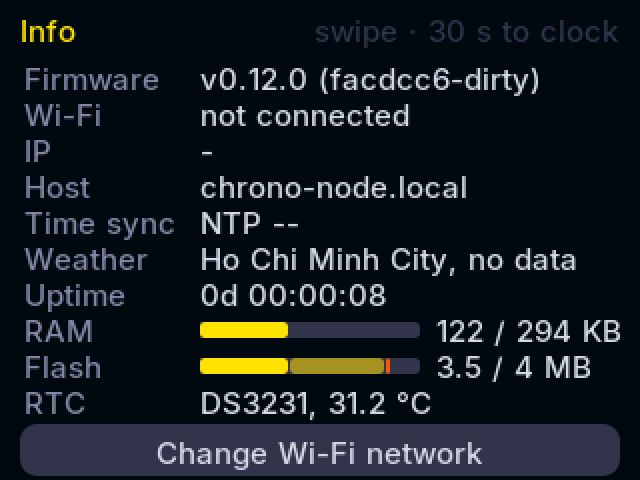
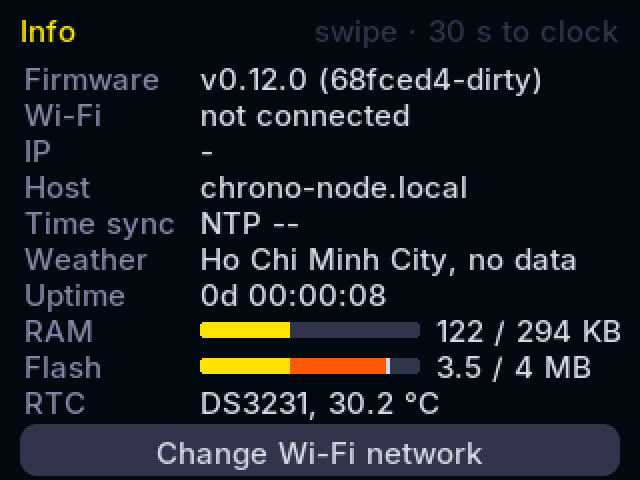
Storage view like a phone's: continuous bars and a list of parts
Info screen: the RAM and flash bars are one continuous rounded bar, with
segments side by side and free space at the end; the 1 px gaps and the
dimmed segment looked broken. Web page: a Storage section with a bar and a
list for flash and RAM, each part with its size and what it holds.

Changed region(s): [[0.5, 0.125, 0.8438, 0.2188], [0.4375, 0.7188, 0.625, 0.7812], [0.5312, 0.8125, 0.6875, 0.875]]

diff --git a/src/web_page.h b/src/web_page.h
@@ -28,12 +28,18 @@ button.danger{border-color:var(--err);color:var(--err)}.val{min-width:44px;text-
 .ph button{position:absolute;top:6px;right:6px;padding:2px 8px;background:#0b0f22d0}
 .ph .cap{position:absolute;left:6px;bottom:6px;font-size:12px;background:#0b0f22d0;border-radius:6px;padding:1px 7px;pointer-events:none}
 .bar{display:flex;height:12px;border-radius:6px;background:#0b0f22;border:1px solid var(--line);overflow:hidden;margin:4px 0}.bar i{display:block;height:100%}
+.bar.big{height:18px;border-radius:6px}.bar.big i{border-right:2px solid var(--card)}.bar.big i:last-child{border-right:0}
+.sthead{display:flex;justify-content:space-between;align-items:baseline;margin:14px 0 6px}.sthead span{color:var(--dim);font-size:13px}
+.strow{display:grid;grid-template-columns:12px 1fr auto;gap:10px;align-items:baseline;padding:8px 0;border-top:1px solid var(--line)}
+.strow .sw{width:12px;height:12px;border-radius:4px}.stv{color:var(--dim);font-variant-numeric:tabular-nums;white-space:nowrap}
 .legend{display:flex;flex-wrap:wrap;gap:4px 14px;font-size:13px;color:var(--dim)}.sw{display:inline-block;width:10px;height:10px;border-radius:3px;margin-right:5px;vertical-align:-1px}
 #phcv{width:100%;max-width:480px;aspect-ratio:4/3;border-radius:9px;touch-action:none;cursor:grab;display:block;background:#000;border:1px solid var(--line)}.big{font-size:28px;font-weight:700}.muted{color:var(--dim);font-size:13px}
 </style></head><body><main>
 <h1>Chrono <span>Node</span></h1><div class="sub" id="sub">Loading...</div>
 
 <section><h2>Status</h2><div class="big" id="time">--:--:--</div><div class="grid" id="status"></div></section>
+
+<section><h2>Storage</h2><div id="storage"></div></section>
 
 <section><h2>Display</h2>
 <div class="row"><label>Day brightness</label><input type="range" id="bday" min="10" max="100" step="5"><span class="val" id="bdayv"></span></div>
@@ -116,23 +122,31 @@ $("time").textContent=s.local_time.slice(11);$("fwcur").textContent="Installed: 
 const w=s.weather?`${s.weather.temp_c}\u00b0C ${s.weather.condition}, ${s.weather.place} (${ago(s.weather.age_s)})`:"no data yet";
 const rows=[["Date",s.local_time.slice(0,10)],["Wi-Fi",`${s.wifi.ssid} (${s.wifi.rssi} dBm)`],["IP",s.wifi.ip],["Time sync",s.ntp],
 ["RTC",s.rtc.present?("DS3231"+(s.rtc.temp_c!==undefined?`, ${s.rtc.temp_c}\u00b0C`:"")+(s.rtc.lost_power?", LOST POWER":"")):"not detected"],
-["Weather",w],["Screen",s.screen+(s.night?" (night mode)":"")],["Uptime",up(s.uptime_s)],["RAM",{html:memBar(s)}],["Flash",{html:flashBar(s.flash)}]];
+["Weather",w],["Screen",s.screen+(s.night?" (night mode)":"")],["Uptime",up(s.uptime_s)]];
+$("storage").innerHTML=flashList(s)+ramList(s);
 $("status").innerHTML=rows.map(r=>`<div>${r[0]}</div><div>${r[1].html||esc(String(r[1]))}</div>`).join("")}catch(e){$("sub").textContent="Clock not reachable"}}
 const kb=b=>(b<10240?(b/1024).toFixed(1):Math.round(b/1024))+" KB";
 const mb=b=>b>=1048576?(b/1048576).toFixed(2)+" MB":kb(b);
 // Stacked bar: parts [{v,c,t}] out of total, then a legend with the same colours.
-// Parts without a label are free space inside the bar (not in the legend).
-function bar(parts,total,free){return`<div class="bar">${parts.map(p=>`<i style="width:${Math.max(0,100*p.v/total).toFixed(2)}%;background:${p.t?p.c:"transparent"}"${p.t?` title="${esc(p.t)}"`:""}></i>`).join("")}</div>
-<div class="legend">${parts.filter(p=>p.t).concat([{c:"#0b0f22;border:1px solid var(--line)",t:"Free "+mb(free)}]).map(p=>`<span><span class="sw" style="background:${p.c}"></span>${esc(p.t)}</span>`).join("")}</div>`}
-// Flash in physical order: system, firmware (+ room left in its slot), the
-// update slot, photos (+ room left in the photo partition).
-function flashBar(f){if(!f)return"";const fwFree=f.slot-f.firmware,phFree=f.photos_total-f.photos_used;
-return bar([{v:f.system,c:"#4a5072",t:"System "+mb(f.system)},{v:f.firmware,c:"var(--accent)",t:"Firmware "+mb(f.firmware)},{v:fwFree},
-{v:f.update_slot,c:"#ff9a1f55",t:"Update slot "+mb(f.update_slot)},{v:f.photos_used,c:"#ff5fa2",t:"Photos "+mb(f.photos_used)},{v:phFree}],f.chip,fwFree+phFree)+
-`<div class="muted">${mb(f.chip)} chip \u00b7 firmware fills ${Math.round(100*f.firmware/f.slot)}% of its ${mb(f.slot)} slot \u00b7 photos get ${mb(f.photos_total)}</div>`}
-// RAM: in use now, plus the extra that was in use at the lowest point since boot.
-function memBar(s){const t=s.heap_total,used=t-s.heap_free,peak=t-s.heap_min;
-return bar([{v:used,c:"var(--accent)",t:"Used "+kb(used)},{v:peak-used,c:"#ff9a1f55",t:"Peak used "+kb(peak)}],t,s.heap_free)+`<div class="muted">${kb(t)} total (of the chip's 520 KB SRAM)</div>`}
+function bar(parts,total,free){return`<div class="bar">${parts.map(p=>`<i style="width:${Math.max(0,100*p.v/total).toFixed(2)}%;background:${p.c}" title="${esc(p.t)}"></i>`).join("")}</div>
+<div class="legend">${parts.concat([{c:"#0b0f22;border:1px solid var(--line)",t:"Free "+mb(free)}]).map(p=>`<span><span class="sw" style="background:${p.c}"></span>${esc(p.t)}</span>`).join("")}</div>`}
+// Phone-style storage view: header, one continuous bar, then every part with
+// its size and what it is. Free space is the last row.
+function stList(title,total,parts,freeNote){const used=parts.reduce((a,p)=>a+p.v,0),free=Math.max(0,total-used);
+return`<div class="sthead"><b>${title}</b><span>${mb(used)} of ${mb(total)} used</span></div>
+<div class="bar big">${parts.map(p=>`<i style="width:${(100*p.v/total).toFixed(2)}%;background:${p.c}"></i>`).join("")}</div>`+
+parts.concat([{v:free,c:"#2a3154",n:"Free",d:freeNote}]).map(p=>`<div class="strow"><span class="sw" style="background:${p.c}"></span>
+<div>${p.n}<div class="muted">${p.d}</div></div><div class="stv">${mb(p.v)}</div></div>`).join("")}
+function flashList(s){const f=s.flash;if(!f)return"";const fwFree=f.slot-f.firmware,phFree=f.photos_total-f.photos_used;
+return stList("Flash \u00b7 "+mb(f.chip),f.chip,[
+{v:f.firmware,c:"var(--accent)",n:"Firmware",d:`The clock's software, v${esc(s.firmware)}. Uses ${Math.round(100*f.firmware/f.slot)}% of its ${mb(f.slot)} slot.`},
+{v:f.update_slot,c:"#8b7bff",n:"Update slot",d:"Kept free for updates: a new version is written here, and the clock goes back to the current one if it fails."},
+{v:f.photos_used,c:"#ff5fa2",n:"Photos",d:`Your photos. ${mb(f.photos_total)} is set aside for them.`},
+{v:f.system,c:"#6b7194",n:"System",d:"Bootloader, settings (including the Wi-Fi password) and the crash log."}],
+`Room for photos (${mb(phFree)}) and for the firmware to grow (${mb(fwFree)}).`)}
+function ramList(s){const t=s.heap_total,used=t-s.heap_free,peak=t-s.heap_min;
+return stList("RAM \u00b7 "+kb(t),t,[{v:used,c:"var(--accent)",n:"In use",d:`Wi-Fi, web server, display and weather data. The most used since the clock started: ${kb(peak)}.`}],
+"Working memory available right now. It's cleared at every restart; nothing is stored here.")}
 const PHC=["#ff9a1f","#ff5fa2","#8b7bff","#2ec5ff","#3ddc97"];
 function esc(t){return t.replace(/[&<>"]/g,c=>({"&":"&amp;","<":"&lt;",">":"&gt;",'"':"&quot;"}[c]))}
 let S;

diff --git a/src/display_manager.cpp b/src/display_manager.cpp
@@ -656,20 +656,29 @@ void DisplayManager::showInfoScreen(const InfoView& v) {
       int16_t x = kInfoValueX;
       const InfoBar& bar = v.bars[i];
       if (bar.total > 0) {
-        // Segments as small blocks with 1 px gaps over the free (faint) track.
-        const uint16_t colors[3] = {pal_.top, theme::mix(pal_.top, C->faint, 120), pal_.bottom};
-        const int16_t y = (kInfoRowH - kInfoBarH) / 2;
-        s.fillSmoothRoundRect(x, y, kInfoBarW, kInfoBarH, 2, C->faint, C->bg);
+        // One continuous bar like a phone's storage bar: segments side by side,
+        // free space (faint) at the end. Non-empty segments get at least 2 px.
+        const uint16_t colors[3] = {pal_.top, pal_.bottom, C->text};
+        int16_t edge[3];
+        int16_t at = 0;
         uint64_t sum = 0;
-        int16_t from = 0;
         for (int k = 0; k < 3; ++k) {
-          if (!bar.seg[k]) continue;
           sum += bar.seg[k];
-          const int16_t to = min<int64_t>(kInfoBarW, (int64_t)(kInfoBarW * sum / bar.total));
-          if (to - from >= 2) {
-            s.fillSmoothRoundRect(x + from, y, to - from - 1, kInfoBarH, 2, colors[k], C->faint);
+          int16_t to = min<int64_t>(kInfoBarW, (int64_t)(kInfoBarW * sum / bar.total));
+          if (bar.seg[k] && to < at + 2) to = min<int16_t>(kInfoBarW, at + 2);
+          edge[k] = at = max(at, to);
+        }
+        const int16_t y = (kInfoRowH - kInfoBarH) / 2;
+        for (int16_t px = 0; px < kInfoBarW; ++px) {
+          uint16_t c = C->faint;
+          for (int k = 0; k < 3; ++k) {
+            if (px < edge[k]) {
+              c = colors[k];
+              break;
+            }
           }
-          from = to;
+          const int16_t inset = (px == 0 || px == kInfoBarW - 1) ? 1 : 0;  // rounded ends
+          s.drawFastVLine(x + px, y + inset, kInfoBarH - 2 * inset, c);
         }
         x += kInfoBarW + 8;
       }

diff --git a/src/display_manager.h b/src/display_manager.h
@@ -14,8 +14,8 @@
 #include "ui_theme.h"
 #include "weather.h"
 
-// Usage bar on an info row: up to three segments out of `total`, drawn in the
-// accent colour, a dimmed accent and the palette's second colour; the rest is free.
+// Usage bar on an info row: up to three segments out of `total`, drawn side by
+// side in the palette's two colours and the text colour; the rest is free.
 struct InfoBar {
   uint32_t total = 0;  // 0: no bar
   uint32_t seg[3] = {};

diff --git a/README.md b/README.md
@@ -250,13 +250,14 @@ Your own photos can be shown on the clock, for example a picture of someone you 
     You can still swipe to your photos at night.
 - **Web page:** thumbnails of the stored photos with each one's size. Tap one to show it on
   the clock now, or ✕ to delete it. A storage bar shows each photo's share, file-system
-  overhead (files use whole 4 KB blocks) and free space. The Status section shows RAM as a
-  bar too: used now, the peak since boot, and free. Next to it, a **Flash** bar shows how the
-  4 MB chip is divided:
-  - system data (bootloader, settings, crash dump): 128 KB
-  - the firmware, in a 1.75 MB slot
+  overhead (files use whole 4 KB blocks) and free space.
+- **Storage section of the web page** (like a phone's storage screen): one bar and a list
+  for each of flash and RAM, with every part's size and what it's for. Flash (4 MB):
+  - firmware, in a 1.75 MB slot
   - the update slot: 1.75 MB, kept free so web updates can roll back
   - photos: a 384 KB partition
+  - system: bootloader, settings (including Wi-Fi), crash log, 128 KB
+  - free: room left for photos and for the firmware to grow
 - **Serial console:** `PHOTO` commands (listed below). Photos larger than the screen, for
   example uploaded with curl, are scaled down by 1/2, 1/4 or 1/8 and centred. Progressive
   JPEGs are rejected because the decoder (tjpgd) can't read them.
